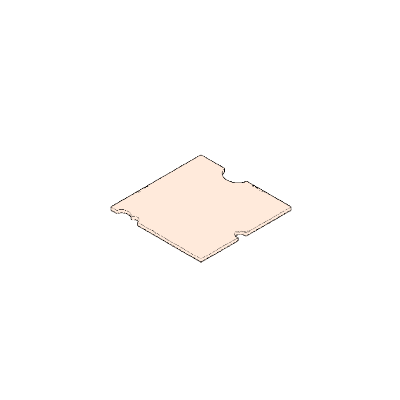
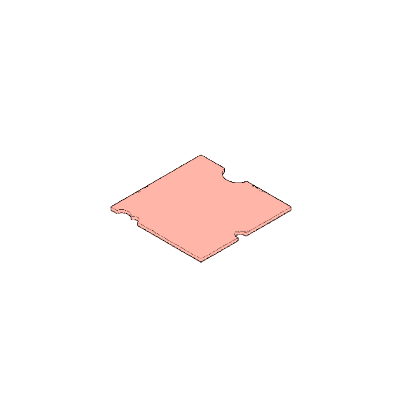
change color palette

Changed region(s): [[0.27, 0.39, 0.72, 0.66]]

diff --git a/style.css b/style.css
@@ -161,7 +161,7 @@ a {
 /************************/
 
 #structure {
-	background-color: #ffeadb;
+	background-color: #ffb5a7;
 }
 
 #structure .layer1,
@@ -227,7 +227,7 @@ a {
 /************************/
 
 #composition {
-	background-color: #ffbaba;
+	background-color: #fcd5ce;
 }
 
 #composition .layer1 {
@@ -329,7 +329,7 @@ a {
 /************************/
 
 #geometry {
-	background-color: #678a74;
+	background-color: #f8edeb;
 }
 
 #geometry img {
@@ -369,7 +369,7 @@ a {
 /************************/
 
 #temporality {
-	background-color: #ffeadb;
+	background-color: #f9dcc4;
 }
 
 #temporality img {
@@ -432,7 +432,7 @@ a {
 }
 
 #intellection {
-	background-color: #a35638;
+	background-color: #fec89a;
 }
 
 #intellection img {
@@ -481,7 +481,7 @@ a {
 
 .no-js #intellection .layer4,
 #intellection.in .layer4 {
-	transform: translate(40%, 150%) rotate(-20deg);
+	transform: translate(40%, 152%) rotate(-20deg);
 }
 
 /************************/
